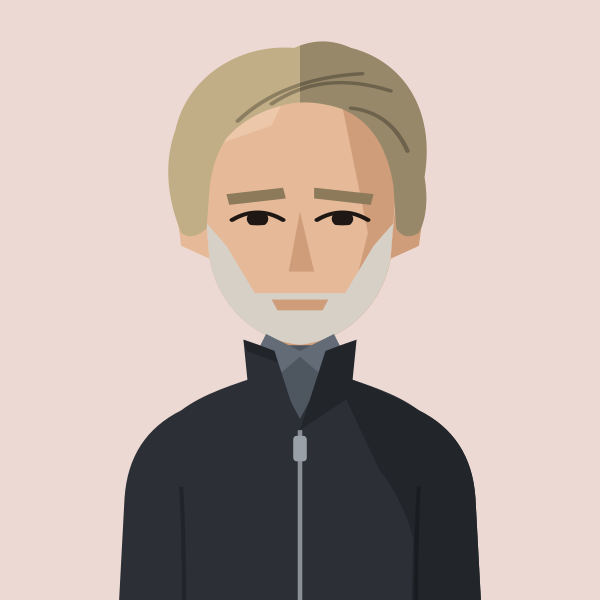
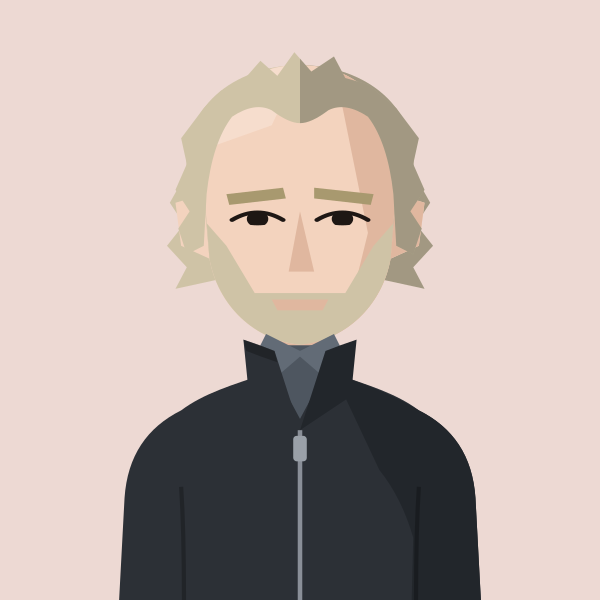
Geoff Jerwood: shaggy receding hair, matching beard, lighter skin
Claude-Session: https://claude.ai/code/session_01MgmDWhFqnSSnP4iBLKXUZC

Changed region(s): [[0.27, 0.06, 0.72, 0.6]]

diff --git a/files/index.html b/files/index.html
@@ -577,7 +577,7 @@ add('kitty-shepherd-cross','BEL','Kitty Shepherd-Cross','Kitty Shepherd Cross');
 return m;})();
 // Athlete header figure: superstar portrait if we have one, else a grey runner in the club vest, else the plain vest icon
 // Changes whenever any portrait changes (set by tools/build_og.py), so browsers fetch fresh images instead of old cached ones
-const PORTRAIT_V='c6becc40';
+const PORTRAIT_V='4662f789';
 const AthletePortrait=({name,club,w,fill,onClick})=>{const[failed,setFailed]=useState(false);const pk=PORTRAITS[normalizeNameForCompare(name).replace(/\s*\([^)]*\)$/,'')];const file=pk&&pk.club===club?pk.file:null;const src=file?`/portraits/athletes/${file}.svg?v=${PORTRAIT_V}`:PORTRAIT_CLUBS.has(club)?`/portraits/clubs/${club.replace(/\//g,'').replace(/&/g,'and')}.svg?v=${PORTRAIT_V}`:null;if(!src||failed)return<div onClick={onClick} className={onClick?'cursor-pointer':''}><ClubShield club={club} size={w}/></div>;const h=Math.round(w*148/126),ih=Math.round(w*1.4);if(fill)return<div onClick={onClick} className="cursor-pointer" style={{alignSelf:'stretch',minHeight:h,aspectRatio:'126 / 148',flexShrink:0,position:'relative',borderRadius:4,overflow:'hidden'}}><img src={src} alt={file?`Portrait of ${name.replace(/\s*\([^)]*\)$/,'')}`:`Runner in ${CLUBS[club]?.name||club} vest`} style={{position:'absolute',top:0,left:0,display:'block',width:'100%',height:'auto'}} onError={()=>setFailed(true)}/></div>;return<div style={{width:w,height:h,borderRadius:4,overflow:'hidden',flexShrink:0}}><img src={src} alt={file?`Portrait of ${name.replace(/\s*\([^)]*\)$/,'')}`:`Runner in ${CLUBS[club]?.name||club} vest`} width={w} height={ih} style={{display:'block',width:w,height:ih}} onError={()=>setFailed(true)}/></div>;};
 const getClubVestSvg=(club)=>{
   const p="M3 0 L6 0 Q7 4 10 5 Q13 4 14 0 L17 0 L17 20 L3 20 Z";

diff --git a/tools/gen_portraits.py b/tools/gen_portraits.py
@@ -119,6 +119,8 @@ HAIR["longstraight"] = HAIR["longwavy"]
 HAIR_BACK["longstraight"] = '<path d="M60,90 C56,52 80,34 100,34 C120,34 144,52 140,90 L142,188 L58,188 Z"/>'
 HAIR["slicktail"] = '<path d="M66,104 C62,58 81,37 100,37 C120,37 138,58 134,104 L131,86 Q129,70 117,62 Q108,62 101,67 Q94,62 85,62 Q71,70 69,86 Z"/>'
 HAIR_BACK["slicktail"] = '<path d="M122,64 C138,66 146,78 146,90 Q151,98 145,106 Q150,116 141,124 Q138,130 134,128 Q137,120 133,112 Q136,102 131,94 Q130,80 122,72 Z"/>'
+HAIR["shaggyrecede"] = '<path d="M60,128 L57,116 L61,108 L56,98 L60,86 L58,74 L66,60 L72,52 L80,47 L86,38 L92,45 L98,34 L104,43 L112,36 L116,46 L124,49 L134,60 L142,74 L140,86 L144,98 L139,108 L143,116 L140,128 L134,124 L133,100 Q131,76 124,64 Q116,57 110,61 Q104,67 100,67 Q96,67 90,61 Q84,57 76,64 Q69,76 67,100 L66,124 Z"/>'
+HAIR_BACK["shaggyrecede"] = '<path d="M60,90 C58,56 80,40 100,40 C120,40 142,56 140,90 L146,104 L141,114 L147,124 L140,134 L144,144 L130,140 L70,140 L56,144 L60,134 L53,124 L59,114 L54,104 Z"/>'
 FACIAL = {
     "mostubble": '<path d="M66,112 L74,124 L84,146 L116,146 L126,124 L134,112 L134,180 L66,180 Z" opacity=".32"/><path d="M84,141 L100,137 L116,141 L117,150 L112,147 L100,144 L88,147 L83,150 Z"/>',
     "muttonchops": '<path d="M65,98 L70,98 L71,120 Q74,134 84,143 Q86,148 82,151 Q74,151 70,143 Q66,132 65,118 Z"/><path d="M135,98 L130,98 L129,120 Q126,134 116,143 Q114,148 118,151 Q126,151 130,143 Q134,132 135,118 Z"/>',
@@ -478,4 +480,4 @@ save("finn-johnson", figure("H/W", skin=2, hair="quiffrecede", hair_colour="#3A2
 save("will-cockerell", figure("BEL", skin=2, hair="horseshoe", hair_colour="#D8D5CF", brow_colour="#6E655C"))
 save("nick-goolab", figure("BEL", skin=3, hair="slicktail", hair_colour="#1C1714", facial="stubble", cleft=True))
 save("arne-dumez", figure("BEL", skin=1, hair="quiff", hair_colour="#8E6643", facial="mostubble"))
-save("geoff-jerwood", figure("HHH", skin=2, hair="sweptback", hair_colour="#C2AE86", facial="beard", facial_colour="#D6D0C6", brow_colour="#8C7A5A", jacket=("#2C3036", "#22262B", None, ("#4E5660", "#626B76"))))
+save("geoff-jerwood", figure("HHH", skin=1, hair="shaggyrecede", hair_colour="#CFC3A6", facial="beard", brow_colour="#A8996F", jacket=("#2C3036", "#22262B", None, ("#4E5660", "#626B76"))))
